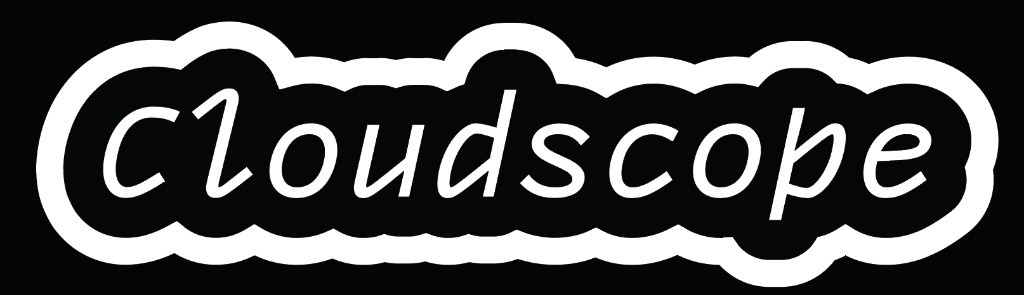
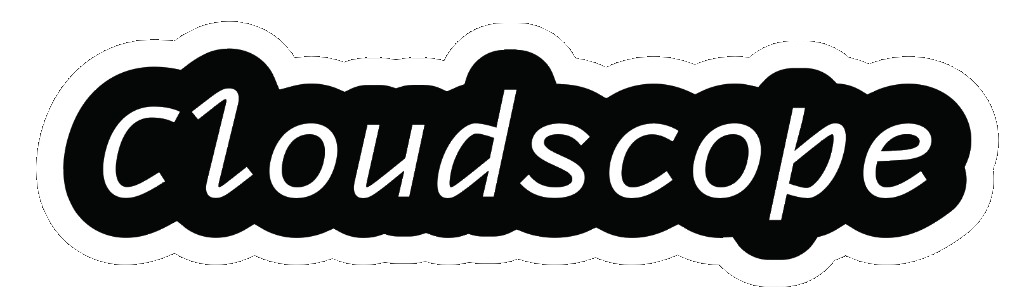
ok

diff --git a/index.html b/index.html
@@ -686,9 +686,6 @@
                     <iframe class="tool-preview-frame" src="phantom.html?preview=1" title="Cloudscope preview" loading="lazy"></iframe>
                     <span>CLOUDSCOPE</span>
                 </div>
-                <div class="site-card-body">
-                    <p>Concert-ready point cloud around one apparition field—mirrors, beams, fracture, and glitch.</p>
-                </div>
             </a>
 
             <a href="phantom-mic.html" class="site-card" style="display: none;">
@@ -713,9 +710,6 @@
                             mix-blend-mode: multiply;"></div>
                     </div>
                     <span>TREATMENT</span>
-                </div>
-                <div class="site-card-body">
-                    <p>Import an image and push it through halftones, dither, ASCII, riso, cross-hatch, glitch and more. Real-time sliders, export as PNG.</p>
                 </div>
             </a>
 

diff --git a/styles.css b/styles.css
@@ -277,10 +277,17 @@ body.is-leaving {
     transition: transform 0.35s cubic-bezier(0.2,0.8,0.2,1);
 }
 
-/* Cloudscope + Treatment stickers are opaque screenshots — screen blend removes the black rect */
-.site-card:nth-child(4) .card-sticker,
+/* Cloudscope — bigger, flush with card top */
+.site-card:nth-child(4) .card-sticker {
+    width: 320px;
+    top: -10px;
+}
+
+/* Treatment — biggest, flush with card top */
 .site-card:nth-child(6) .card-sticker {
-    mix-blend-mode: screen;
+    width: 360px;
+    top: -10px;
+    right: -28px;
 }
 
 .site-card:nth-child(6) .card-sticker {
